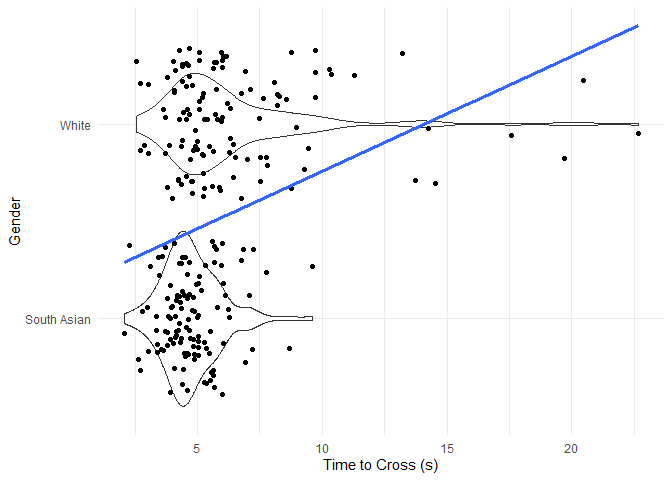
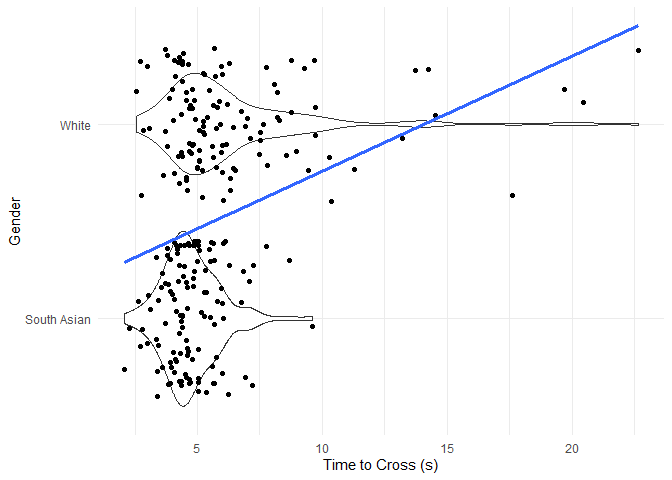
Commit from RStudio

diff --git a/racial_bias_analysis.md b/racial_bias_analysis.md
@@ -756,23 +756,23 @@ table1
 ```
 
 ```{=html}
-<div id="gkvyzxcjiv" style="padding-left:0px;padding-right:0px;padding-top:10px;padding-bottom:10px;overflow-x:auto;overflow-y:auto;width:auto;height:auto;">
-<style>#gkvyzxcjiv table {
+<div id="dgcxrjvwxy" style="padding-left:0px;padding-right:0px;padding-top:10px;padding-bottom:10px;overflow-x:auto;overflow-y:auto;width:auto;height:auto;">
+<style>#dgcxrjvwxy table {
   font-family: system-ui, 'Segoe UI', Roboto, Helvetica, Arial, sans-serif, 'Apple Color Emoji', 'Segoe UI Emoji', 'Segoe UI Symbol', 'Noto Color Emoji';
   -webkit-font-smoothing: antialiased;
   -moz-osx-font-smoothing: grayscale;
 }
 
-#gkvyzxcjiv thead, #gkvyzxcjiv tbody, #gkvyzxcjiv tfoot, #gkvyzxcjiv tr, #gkvyzxcjiv td, #gkvyzxcjiv th {
+#dgcxrjvwxy thead, #dgcxrjvwxy tbody, #dgcxrjvwxy tfoot, #dgcxrjvwxy tr, #dgcxrjvwxy td, #dgcxrjvwxy th {
   border-style: none;
 }
 
-#gkvyzxcjiv p {
+#dgcxrjvwxy p {
   margin: 0;
   padding: 0;
 }
 
-#gkvyzxcjiv .gt_table {
+#dgcxrjvwxy .gt_table {
   display: table;
   border-collapse: collapse;
   line-height: normal;
@@ -798,12 +798,12 @@ table1
   border-left-color: #D3D3D3;
 }
 
-#gkvyzxcjiv .gt_caption {
+#dgcxrjvwxy .gt_caption {
   padding-top: 4px;
   padding-bottom: 4px;
 }
 
-#gkvyzxcjiv .gt_title {
+#dgcxrjvwxy .gt_title {
   color: #333333;
   font-size: 125%;
   font-weight: initial;
@@ -815,7 +815,7 @@ table1
   border-bottom-width: 0;
 }
 
-#gkvyzxcjiv .gt_subtitle {
+#dgcxrjvwxy .gt_subtitle {
   color: #333333;
   font-size: 85%;
   font-weight: initial;
@@ -827,7 +827,7 @@ table1
   border-top-width: 0;
 }
 
-#gkvyzxcjiv .gt_heading {
+#dgcxrjvwxy .gt_heading {
   background-color: #FFFFFF;
   text-align: center;
   border-bottom-color: #FFFFFF;
@@ -839,13 +839,13 @@ table1
   border-right-color: #D3D3D3;
 }
 
-#gkvyzxcjiv .gt_bottom_border {
+#dgcxrjvwxy .gt_bottom_border {
   border-bottom-style: solid;
   border-bottom-width: 2px;
   border-bottom-color: #D3D3D3;
 }
 
-#gkvyzxcjiv .gt_col_headings {
+#dgcxrjvwxy .gt_col_headings {
   border-top-style: solid;
   border-top-width: 2px;
   border-top-color: #D3D3D3;
@@ -860,7 +860,7 @@ table1
   border-right-color: #D3D3D3;
 }
 
-#gkvyzxcjiv .gt_col_heading {
+#dgcxrjvwxy .gt_col_heading {
   color: #333333;
   background-color: #FFFFFF;
   font-size: 100%;
@@ -880,7 +880,7 @@ table1
   overflow-x: hidden;
 }
 
-#gkvyzxcjiv .gt_column_spanner_outer {
+#dgcxrjvwxy .gt_column_spanner_outer {
   color: #333333;
   background-color: #FFFFFF;
   font-size: 100%;
@@ -892,15 +892,15 @@ table1
   padding-right: 4px;
 }
 
-#gkvyzxcjiv .gt_column_spanner_outer:first-child {
+#dgcxrjvwxy .gt_column_spanner_outer:first-child {
   padding-left: 0;
 }
 
-#gkvyzxcjiv .gt_column_spanner_outer:last-child {
+#dgcxrjvwxy .gt_column_spanner_outer:last-child {
   padding-right: 0;
 }
 
-#gkvyzxcjiv .gt_column_spanner {
+#dgcxrjvwxy .gt_column_spanner {
   border-bottom-style: solid;
   border-bottom-width: 2px;
   border-bottom-color: #D3D3D3;
@@ -912,11 +912,11 @@ table1
   width: 100%;
 }
 
-#gkvyzxcjiv .gt_spanner_row {
+#dgcxrjvwxy .gt_spanner_row {
   border-bottom-style: hidden;
 }
 
-#gkvyzxcjiv .gt_group_heading {
+#dgcxrjvwxy .gt_group_heading {
   padding-top: 8px;
   padding-bottom: 8px;
   padding-left: 5px;
@@ -942,7 +942,7 @@ table1
   text-align: left;
 }
 
-#gkvyzxcjiv .gt_empty_group_heading {
+#dgcxrjvwxy .gt_empty_group_heading {
   padding: 0.5px;
   color: #333333;
   background-color: #FFFFFF;
@@ -957,15 +957,15 @@ table1
   vertical-align: middle;
 }
 
-#gkvyzxcjiv .gt_from_md > :first-child {
+#dgcxrjvwxy .gt_from_md > :first-child {
   margin-top: 0;
 }
 
-#gkvyzxcjiv .gt_from_md > :last-child {
+#dgcxrjvwxy .gt_from_md > :last-child {
   margin-bottom: 0;
 }
 
-#gkvyzxcjiv .gt_row {
+#dgcxrjvwxy .gt_row {
   padding-top: 8px;
   padding-bottom: 8px;
   padding-left: 5px;
@@ -984,7 +984,7 @@ table1
   overflow-x: hidden;
 }
 
-#gkvyzxcjiv .gt_stub {
+#dgcxrjvwxy .gt_stub {
   color: #333333;
   background-color: #FFFFFF;
   font-size: 100%;
@@ -997,7 +997,7 @@ table1
   padding-right: 5px;
 }
 
-#gkvyzxcjiv .gt_stub_row_group {
+#dgcxrjvwxy .gt_stub_row_group {
   color: #333333;
   background-color: #FFFFFF;
   font-size: 100%;
@@ -1011,15 +1011,15 @@ table1
   vertical-align: top;
 }
 
-#gkvyzxcjiv .gt_row_group_first td {
+#dgcxrjvwxy .gt_row_group_first td {
   border-top-width: 2px;
 }
 
-#gkvyzxcjiv .gt_row_group_first th {
+#dgcxrjvwxy .gt_row_group_first th {
   border-top-width: 2px;
 }
 
-#gkvyzxcjiv .gt_summary_row {
+#dgcxrjvwxy .gt_summary_row {
   color: #333333;
   background-color: #FFFFFF;
   text-transform: inherit;
@@ -1029,16 +1029,16 @@ table1
   padding-right: 5px;
 }
 
-#gkvyzxcjiv .gt_first_summary_row {
+#dgcxrjvwxy .gt_first_summary_row {
   border-top-style: solid;
   border-top-color: #D3D3D3;
 }
 
-#gkvyzxcjiv .gt_first_summary_row.thick {
+#dgcxrjvwxy .gt_first_summary_row.thick {
   border-top-width: 2px;
 }
 
-#gkvyzxcjiv .gt_last_summary_row {
+#dgcxrjvwxy .gt_last_summary_row {
   padding-top: 8px;
   padding-bottom: 8px;
   padding-left: 5px;
@@ -1048,7 +1048,7 @@ table1
   border-bottom-color: #D3D3D3;
 }
 
-#gkvyzxcjiv .gt_grand_summary_row {
+#dgcxrjvwxy .gt_grand_summary_row {
   color: #333333;
   background-color: #FFFFFF;
   text-transform: inherit;
@@ -1058,7 +1058,7 @@ table1
   padding-right: 5px;
 }
 
-#gkvyzxcjiv .gt_first_grand_summary_row {
+#dgcxrjvwxy .gt_first_grand_summary_row {
   padding-top: 8px;
   padding-bottom: 8px;
   padding-left: 5px;
@@ -1068,7 +1068,7 @@ table1
   border-top-color: #D3D3D3;
 }
 
-#gkvyzxcjiv .gt_last_grand_summary_row_top {
+#dgcxrjvwxy .gt_last_grand_summary_row_top {
   padding-top: 8px;
   padding-bottom: 8px;
   padding-left: 5px;
@@ -1078,11 +1078,11 @@ table1
   border-bottom-color: #D3D3D3;
 }
 
-#gkvyzxcjiv .gt_striped {
+#dgcxrjvwxy .gt_striped {
   background-color: rgba(128, 128, 128, 0.05);
 }
 
-#gkvyzxcjiv .gt_table_body {
+#dgcxrjvwxy .gt_table_body {
   border-top-style: solid;
   border-top-width: 2px;
   border-top-color: #D3D3D3;
@@ -1091,7 +1091,7 @@ table1
   border-bottom-color: #D3D3D3;
 }
 
-#gkvyzxcjiv .gt_footnotes {
+#dgcxrjvwxy .gt_footnotes {
   color: #333333;
   background-color: #FFFFFF;
   border-bottom-style: none;
@@ -1105,7 +1105,7 @@ table1
   border-right-color: #D3D3D3;
 }
 
-#gkvyzxcjiv .gt_footnote {
+#dgcxrjvwxy .gt_footnote {
   margin: 0px;
   font-size: 90%;
   padding-top: 4px;
@@ -1114,7 +1114,7 @@ table1
   padding-right: 5px;
 }
 
-#gkvyzxcjiv .gt_sourcenotes {
+#dgcxrjvwxy .gt_sourcenotes {
   color: #333333;
   background-color: #FFFFFF;
   border-bottom-style: none;
@@ -1128,7 +1128,7 @@ table1
   border-right-color: #D3D3D3;
 }
 
-#gkvyzxcjiv .gt_sourcenote {
+#dgcxrjvwxy .gt_sourcenote {
   font-size: 90%;
   padding-top: 4px;
   padding-bottom: 4px;
@@ -1136,72 +1136,72 @@ table1
   padding-right: 5px;
 }
 
-#gkvyzxcjiv .gt_left {
+#dgcxrjvwxy .gt_left {
   text-align: left;
 }
 
-#gkvyzxcjiv .gt_center {
+#dgcxrjvwxy .gt_center {
   text-align: center;
 }
 
-#gkvyzxcjiv .gt_right {
+#dgcxrjvwxy .gt_right {
   text-align: right;
   font-variant-numeric: tabular-nums;
 }
 
-#gkvyzxcjiv .gt_font_normal {
+#dgcxrjvwxy .gt_font_normal {
   font-weight: normal;
 }
 
-#gkvyzxcjiv .gt_font_bold {
+#dgcxrjvwxy .gt_font_bold {
   font-weight: bold;
 }
 
-#gkvyzxcjiv .gt_font_italic {
+#dgcxrjvwxy .gt_font_italic {
   font-style: italic;
 }
 
-#gkvyzxcjiv .gt_super {
+#dgcxrjvwxy .gt_super {
   font-size: 65%;
 }
 
-#gkvyzxcjiv .gt_footnote_marks {
+#dgcxrjvwxy .gt_footnote_marks {
   font-size: 75%;
   vertical-align: 0.4em;
   position: initial;
 }
 
-#gkvyzxcjiv .gt_asterisk {
+#dgcxrjvwxy .gt_asterisk {
   font-size: 100%;
   vertical-align: 0;
 }
 
-#gkvyzxcjiv .gt_indent_1 {
+#dgcxrjvwxy .gt_indent_1 {
   text-indent: 5px;
 }
 
-#gkvyzxcjiv .gt_indent_2 {
+#dgcxrjvwxy .gt_indent_2 {
   text-indent: 10px;
 }
 
-#gkvyzxcjiv .gt_indent_3 {
+#dgcxrjvwxy .gt_indent_3 {
   text-indent: 15px;
 }
 
-#gkvyzxcjiv .gt_indent_4 {
+#dgcxrjvwxy .gt_indent_4 {
   text-indent: 20px;
 }
 
-#gkvyzxcjiv .gt_indent_5 {
+#dgcxrjvwxy .gt_indent_5 {
   text-indent: 25px;
 }
 
-#gkvyzxcjiv .katex-display {
+#dgcxrjvwxy .katex-display {
   display: inline-flex !important;
   margin-bottom: 0.75em !important;
 }
 
-#gkvyzxcjiv div.Reactable > div.rt-table > div.rt-thead > div.rt-tr.rt-tr-group-header > div.rt-th-group:after {
+#dgcxrjvwxy div.Reactable > div.rt-table > div.rt-thead > div.rt-tr.rt-tr-group-header > div.rt-th-group:after {
   height: 0px !important;
 }
 </style>